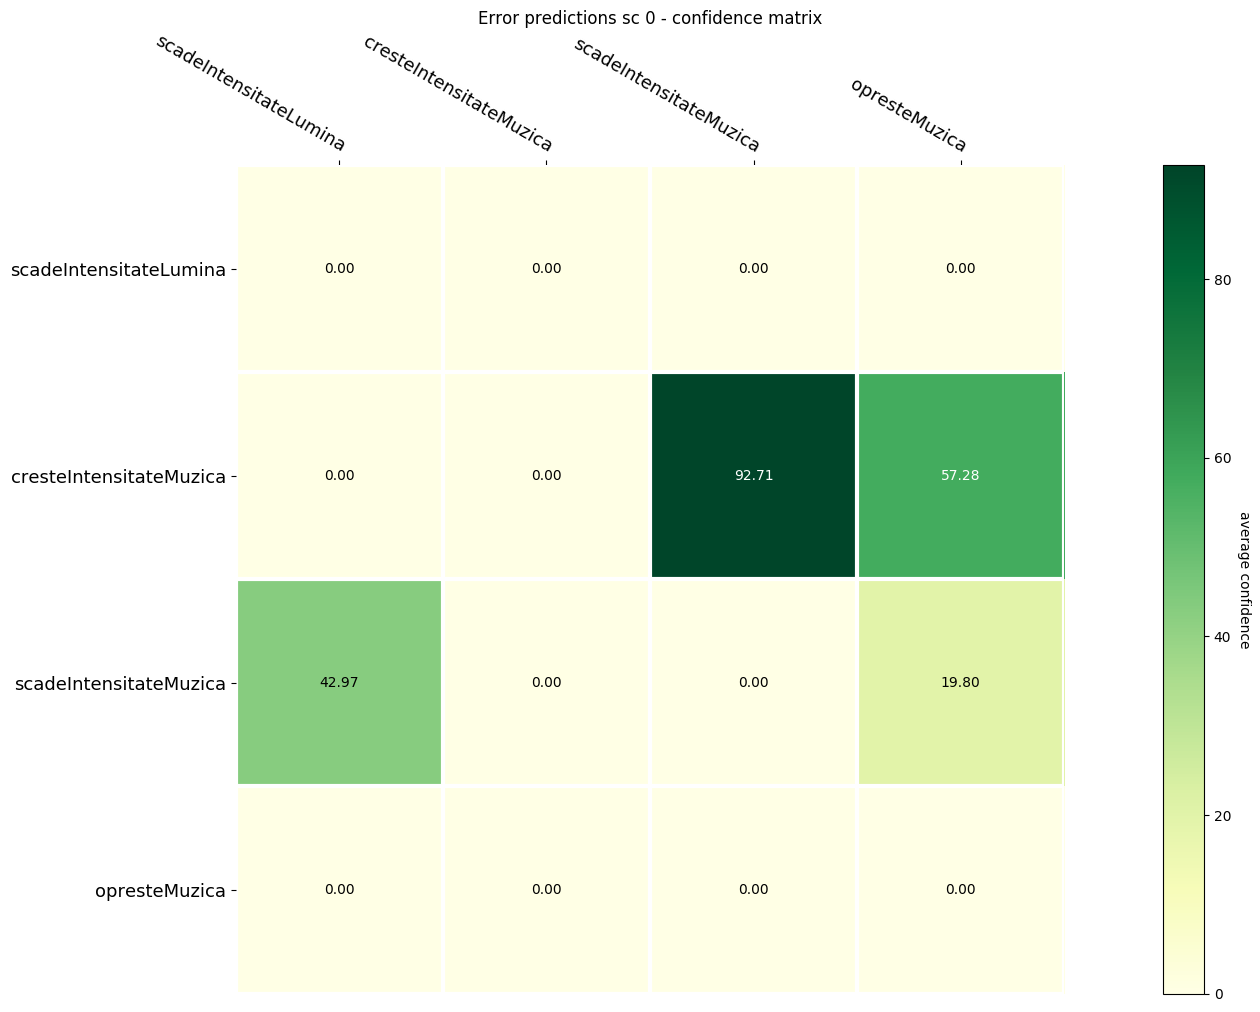
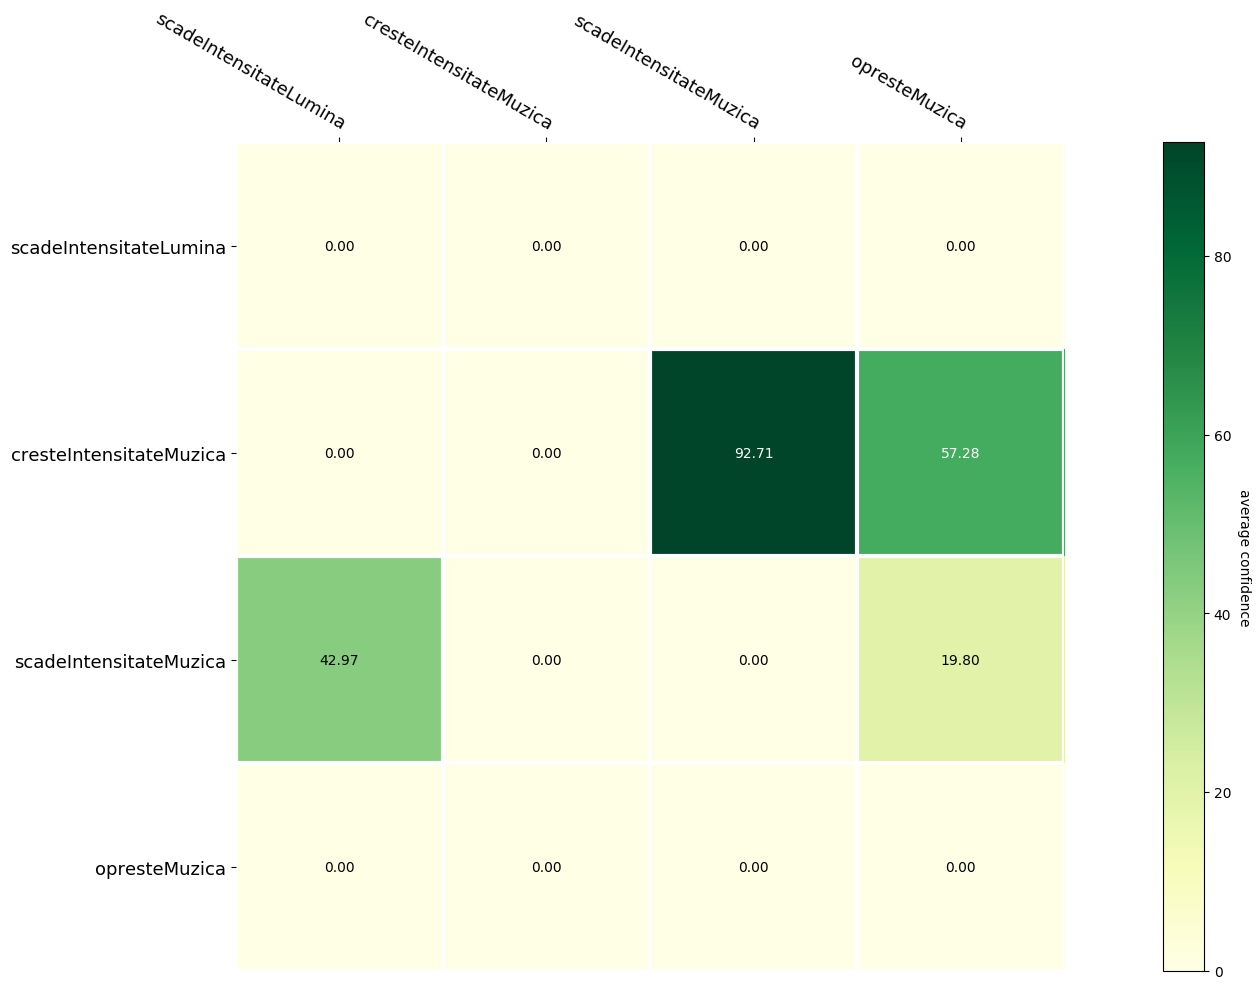
Remove confidence matrices titles

diff --git a/capsnet-arch/conf_histograms.py b/capsnet-arch/conf_histograms.py
@@ -242,7 +242,7 @@ def average(lst):
 
 def valid_intent(intent_name):
     return (intent_name[-2:] != 'Nr' and intent_name != 'nrTrue'
-            and '-avg' not in intent_name and '-normalizedAvg' not in intent_name)
+            and '-avg' not in intent_name and '-percAvg' not in intent_name)
 
 
 def get_conf_matrix(conf_dict, intents, value_key_prefix):
@@ -282,7 +282,7 @@ def do_conf_matrix_plot(confidences, intents, plot_filename, title='', cbarlabel
     # plt.show()
 
 
-def plot_conf_matrix(results, plot_filename, title='', only_true_vs_pred=True, translate_eng=False):
+def plot_conf_matrix(results, plot_filename, title='', only_true_vs_pred=True, translate_eng=False, include_title=False):
     '''
 
     Args:
@@ -313,7 +313,7 @@ def plot_conf_matrix(results, plot_filename, title='', only_true_vs_pred=True, t
                 conf_dict[ex['trueIntent']][pred_intent] = []
                 conf_dict[ex['trueIntent']][pred_intent + 'Nr'] = 0
                 conf_dict[ex['trueIntent']][pred_intent + '-avg'] = 0
-                conf_dict[ex['trueIntent']][pred_intent + '-normalizedAvg'] = 0
+                conf_dict[ex['trueIntent']][pred_intent + '-percAvg'] = 0
             conf = intents_conf[pred_intent]
             conf_dict[ex['trueIntent']][pred_intent + 'Nr'] += 1
             conf_dict[ex['trueIntent']][pred_intent].append(conf * 100)
@@ -327,7 +327,7 @@ def plot_conf_matrix(results, plot_filename, title='', only_true_vs_pred=True, t
         for potential_intent, conf_list in confs.items():
             if valid_intent(potential_intent):
                 confs[potential_intent + '-avg'] = average(conf_list)
-                confs[potential_intent + '-normalizedAvg'] = average(conf_list) * confs[potential_intent + 'Nr'] / confs['nrTrue']
+                confs[potential_intent + '-percAvg'] = average(conf_list) * confs[potential_intent + 'Nr'] / confs['nrTrue']
 
     intents = [x for x in INTENTS_ORDER if x in intents_set]
     if translate_eng:
@@ -342,25 +342,35 @@ def plot_conf_matrix(results, plot_filename, title='', only_true_vs_pred=True, t
         conf_matrix_fname = plot_filename
     do_conf_matrix_plot(confidences, intent_labels, conf_matrix_fname, title)
 
-    normalized_confidences = get_conf_matrix(conf_dict, intents, '-normalizedAvg')
+    perc_confidences = get_conf_matrix(conf_dict, intents, '-percAvg')
 
     if translate_eng:
-        conf_matrix_fname = plot_filename + '-normalized' + '-eng'
+        conf_matrix_fname = plot_filename + '-perc' + '-eng'
     else:
-        conf_matrix_fname = plot_filename + '-normalized'
-    do_conf_matrix_plot(normalized_confidences, intent_labels, conf_matrix_fname, title + ' (normalized)')
+        conf_matrix_fname = plot_filename + '-perc'
+    if include_title:
+        plot_title = title + ' (perc)'
+    else:
+        plot_title = ''
+    do_conf_matrix_plot(perc_confidences, intent_labels, conf_matrix_fname, plot_title)
 
 
-def plot_conf_levels(input_path, plot_filename, scenario_num, file_content, plot_matrix=False, translate_eng=False):
+def plot_conf_levels(input_path, plot_filename, scenario_num, file_content, plot_matrix=False, translate_eng=False,
+                     include_title=True):
     with open(input_path, errors='replace', encoding='utf-8') as f:
         results = json.load(f)
-    title_prefix = 'Correct predictions sc ' + scenario_num
-    if file_content is FileContents.errors:
-        title_prefix = 'Error predictions sc ' + scenario_num
-    plot_conf_all_intents(results, plot_filename.format('overall'), title_prefix + ' - overall')
+    title = ''
+    if include_title:
+        title_prefix = 'Correct predictions sc ' + scenario_num
+        if file_content is FileContents.errors:
+            title_prefix = 'Error predictions sc ' + scenario_num
+        title = title_prefix + ' - overall'
+    # plot_conf_all_intents(results, plot_filename.format('overall'), title)
     if plot_matrix:
-        plot_conf_matrix(results, plot_filename.format('matrix'), title_prefix + ' - confidence matrix',
-                         translate_eng=translate_eng)
+        if include_title:
+            title = title_prefix + ' - confidence matrix'
+        plot_conf_matrix(results, plot_filename.format('matrix'), title=title, translate_eng=translate_eng,
+                         include_title=include_title)
 
 
 def get_err_type(true_intent, pred_intent):
@@ -500,7 +510,7 @@ def main():
         # show_slot_errors(corr, err, sc_nr)
         plot_conf_levels(corr, plots_base_dir + corr.split('/')[-1][:-5], sc_nr, FileContents.correct)
         plot_conf_levels(err, plots_base_dir + err.split('/')[-1][:-5], sc_nr, FileContents.errors,
-                         plot_matrix=True, translate_eng=True)
+                         plot_matrix=True, translate_eng=True, include_title=False)
 
 
 if __name__ == '__main__':
